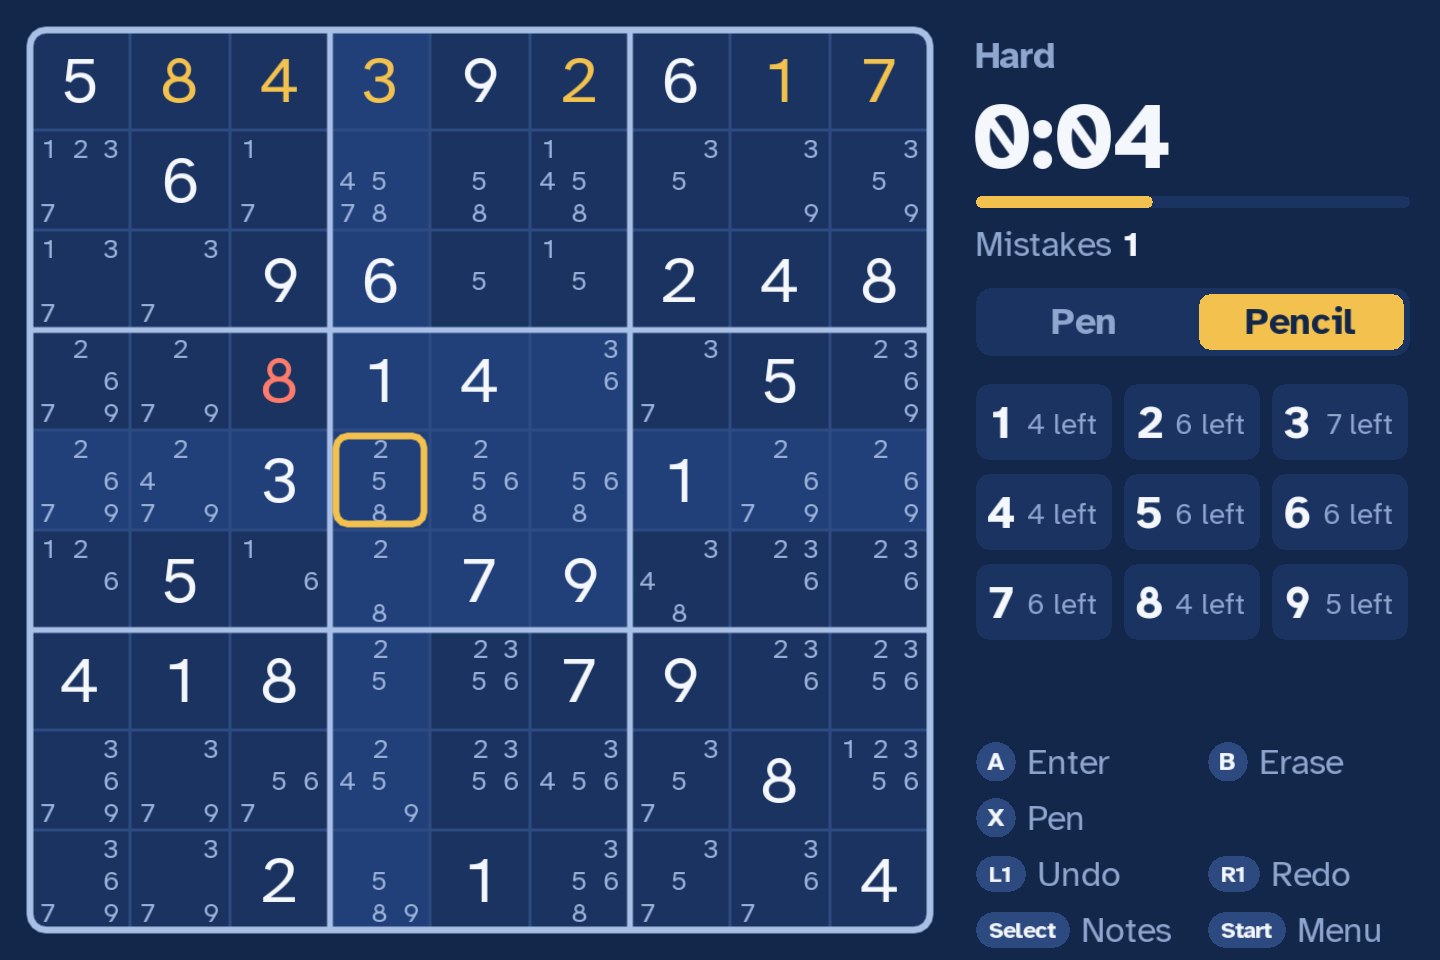
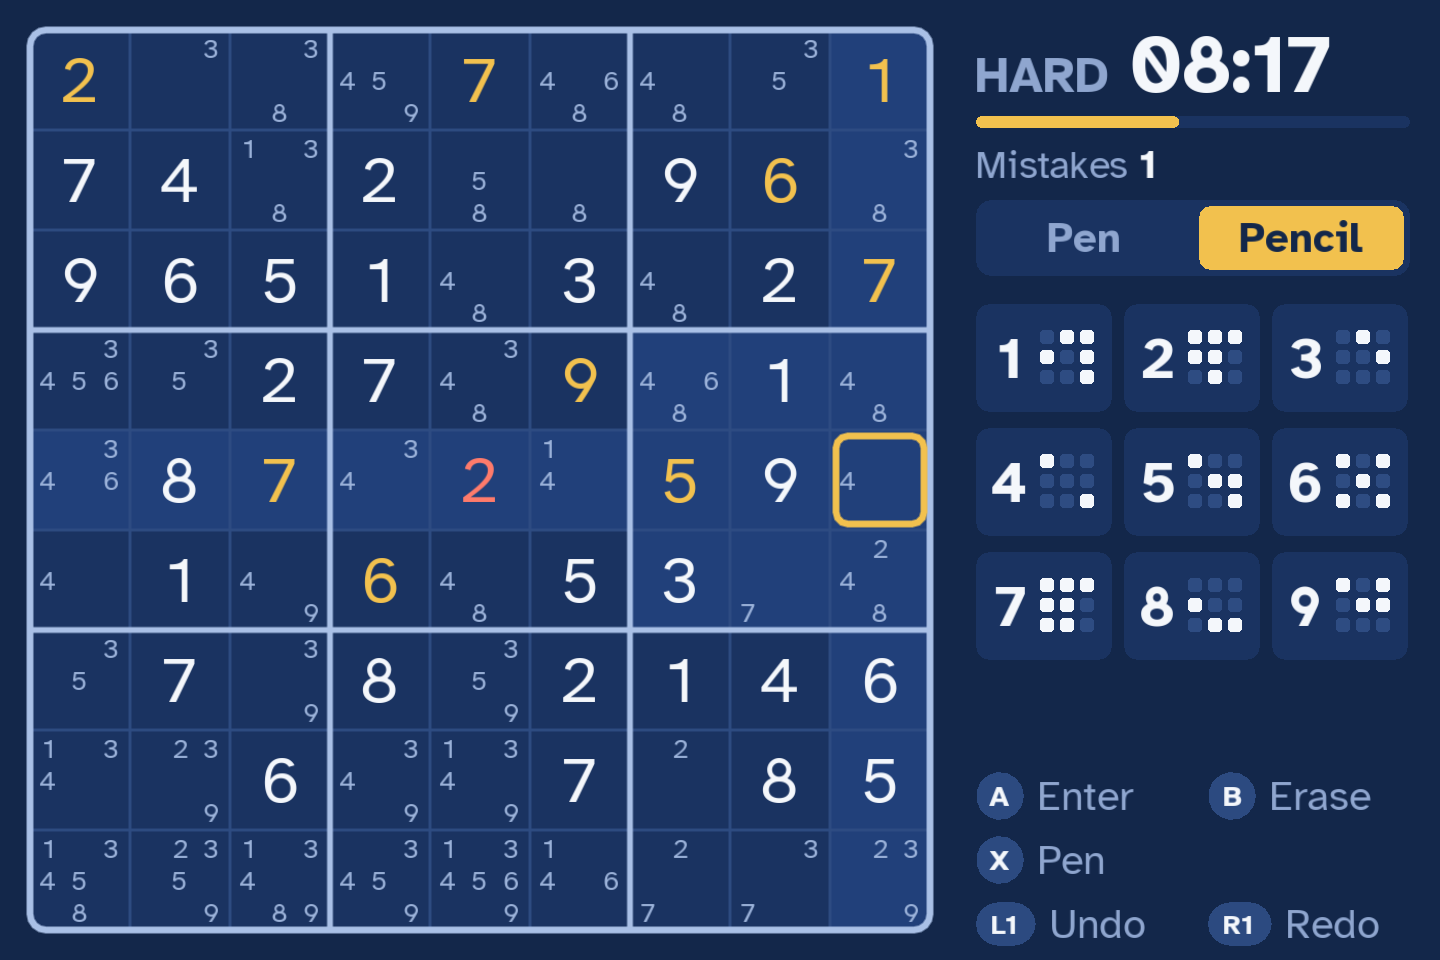
Distraction-free mode, box-map digit tiles, compact side panel
- Number pad: no "Enter a number" header, and its digits stay on whole
  pixels while it pops in and at every resolution (they were smeared on
  screens other than 720x480).
- Select toggles notes: it fills them when the board has none and clears
  them otherwise. Both can be undone.
- Digit tiles show a 3x3 map of the board's boxes instead of "N left":
  a box's dot lights up once it holds that digit.
- Distraction-free mode in the pause menu shows just the board, centered.
  The choice is saved; an explained hint brings the panel back while open.
- Side panel: difficulty and clock share the top row (MEDIUM shortens to
  MED), the controls legend shows only A, B, X, Y, L1 and R1 in at most
  three rows, and text, tiles and button glyphs are larger.
- README: distraction-free section and refreshed screenshots.

diff --git a/README.md b/README.md
@@ -20,6 +20,7 @@ the Anbernic RG34XXSP's 720×480 screen and scaled to fit other resolutions.
   explains it on the board, walking through any groundwork it needs first (see
   "Explained hints" below)
 - Highlights for the cursor's row, column and box, and for matching numbers
+- Distraction-free mode, from the pause menu: just the board, centered on the screen
 - Celebrations: completing a row, column, box or all nine of a number makes the
   digits bounce in a ripple with a glow pulse, and solving the puzzle adds a
   board-wide wave and confetti
@@ -88,7 +89,7 @@ to use.
 | X | Switch pen / pencil | Switch pen / pencil |
 | Y | Hint, if turned on in Settings | Erase the cell |
 | L1 / R1 | Undo / redo | Undo / redo |
-| Select | Fill all notes | |
+| Select | Fill all notes, or clear them if there are any | |
 | Start / Menu | Pause menu | Pause menu |
 
 ### Explained hints
@@ -125,6 +126,15 @@ don't count toward best times.
 
 On a PC keyboard: arrows move, Enter/Space is A, Backspace is B, X and Y are X and Y,
 Q/E are L1/R1, Tab is Select, Esc is Start, and 1–9 / 0 enter or erase directly.
+
+### Distraction-free mode
+
+Choose **Distraction-free** in the pause menu to hide the side panel and center the
+board, with nothing else on screen. **Show side panel** in the same menu brings it
+back, and the choice is remembered. The clock keeps running and shows in the pause
+menu, and an explained hint brings the panel back until you close it.
+
+<img src="screenshots/distraction-free.png" alt="Distraction-free mode: only the board, centered" width="49%">
 
 ## Development
 
